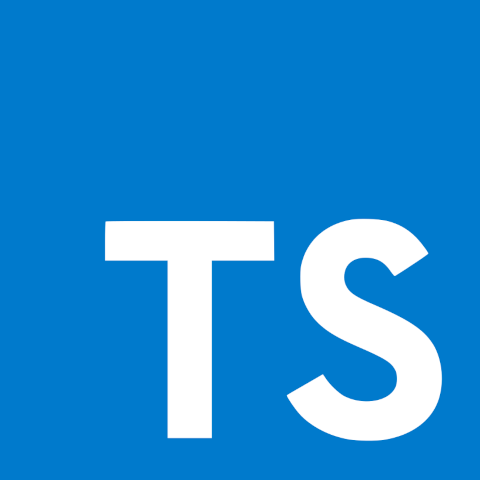
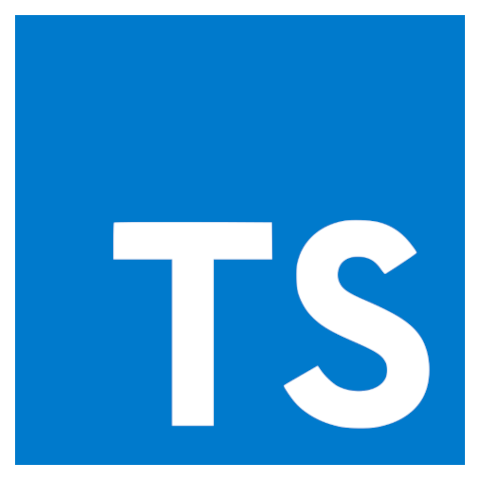
Fixes image sizes.

diff --git a/src/data/tools.js b/src/data/tools.js
@@ -29,6 +29,37 @@ import vs_code from "./tools/vs_code.png";
 import wakatime from "./tools/wakatime.png";
 import yarn from "./tools/yarn.png";
 
-const tools = [{ title: "Android", icon: android }];
+const tools = [
+	{ id: 0, title: "Android", icon: android },
+	{ id: 1, title: "C", icon: c },
+	{ id: 2, title: "C++", icon: cpp },
+	{ id: 3, title: "CSS", icon: css },
+	{ id: 4, title: "Firebase", icon: firebase },
+	{ id: 5, title: "Flask", icon: flask },
+	{ id: 6, title: "GIMP", icon: gimp },
+	{ id: 7, title: "Git", icon: git },
+	{ id: 8, title: "GitHub", icon: github },
+	{ id: 9, title: "Golang", icon: golang },
+	{ id: 10, title: "Heroku", icon: heroku },
+	{ id: 11, title: "Hitfilm", icon: hitfilm },
+	{ id: 12, title: "HTML", icon: html },
+	{ id: 13, title: "Java", icon: java },
+	{ id: 14, title: "JavaScript", icon: javascript },
+	{ id: 15, title: "Jetbrains", icon: jetbrains },
+	{ id: 16, title: "MongoDB", icon: mongodb },
+	{ id: 17, title: "Netlify", icon: netlify },
+	{ id: 18, title: "Nodejs", icon: nodejs },
+	{ id: 19, title: "NPM", icon: npm },
+	{ id: 20, title: "Office", icon: office },
+	{ id: 21, title: "Python", icon: python },
+	{ id: 22, title: "React", icon: react },
+	{ id: 23, title: "Sass", icon: sass },
+	{ id: 24, title: "TypeScript", icon: typescript },
+	{ id: 25, title: "Ubuntu", icon: ubuntu },
+	{ id: 26, title: "Vercel", icon: vercel },
+	{ id: 27, title: "VS Code", icon: vs_code },
+	{ id: 28, title: "Wakatime", icon: wakatime },
+	{ id: 29, title: "Yarn", icon: yarn },
+];
 
 export default tools;

diff --git a/src/components/Tools.js b/src/components/Tools.js
@@ -8,7 +8,17 @@ const Tools = () => {
 	return (
 		<animated.div className="tools" style={props}>
 			<h1 className="title">Tools and Technologies</h1>
-			<div className="content">{tools.map((tool) => tool.icon)}</div>
+			<div className="content">
+				{tools.map((tool) => (
+					<img
+						src={tool.icon}
+						alt={tool.title}
+						title={tool.title}
+						className="tools-img"
+						key={tool.id}
+					/>
+				))}
+			</div>
 		</animated.div>
 	);
 };
